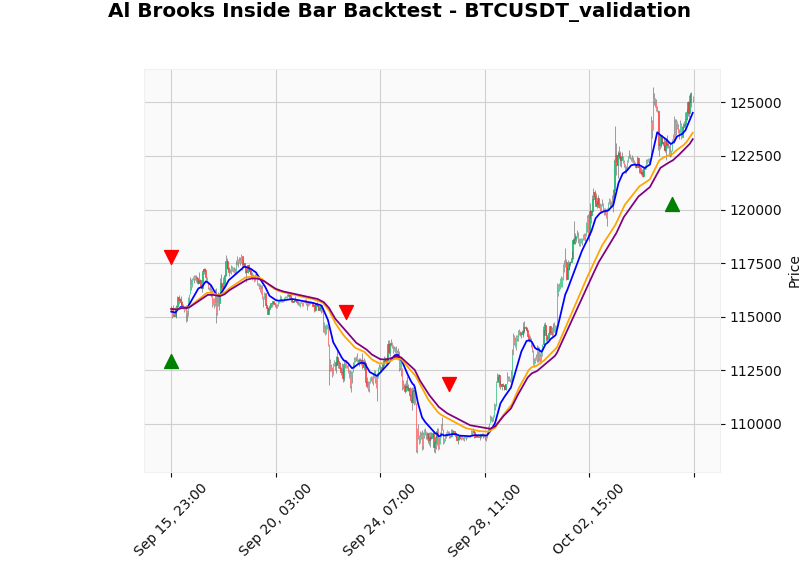
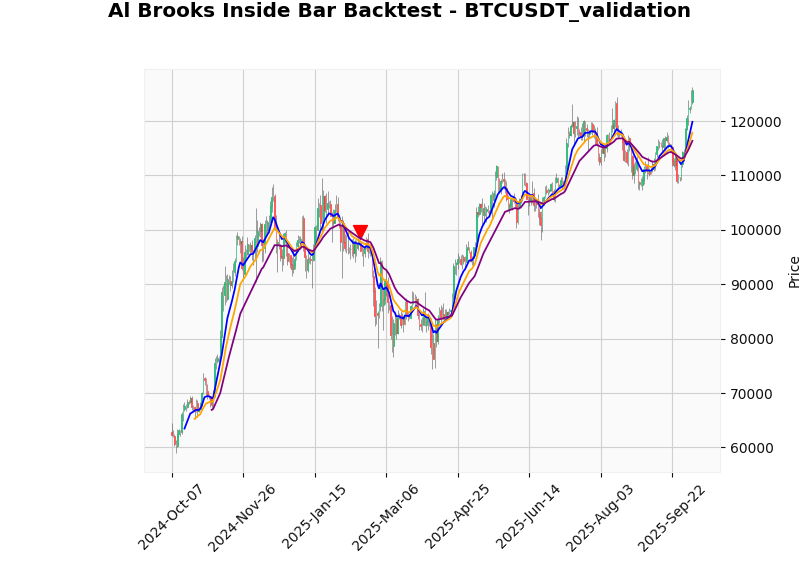
15

diff --git a/src/strategies/al_brooks_1d/live.py b/src/strategies/al_brooks_1d/live.py
@@ -59,7 +59,7 @@ def check_signals(df: pd.DataFrame, params: dict) -> str:
 def main():
     parser = argparse.ArgumentParser(description="Executa a estratégia Al Brooks em modo 'live' (paper trading).")
     parser.add_argument("--ticker", default="BTCUSDT", help="Símbolo do ativo")
-    parser.add_argument("--interval", default="1h", help="Intervalo das velas")
+    parser.add_argument("--interval", default="1d", help="Intervalo das velas")
     parser.add_argument("--poll_interval_seconds", type=int, default=10, help="Intervalo de verificação em segundos")
     parser.add_argument("--capital", type=float, default=100.0, help="Capital inicial para o paper trading")
     args = parser.parse_args()
@@ -85,10 +85,15 @@ def main():
     print("\nIniciando monitoramento... Pressione Ctrl+C para parar.")
     while True:
         try:
-            # Converte o intervalo para minutos (ex: '15m' -> 15, '1h' -> 60)
+            # Converte o intervalo para minutos (ex: '15m' -> 15, '1h' -> 60, '1d' -> 1440)
             interval_unit = args.interval[-1]
             interval_value = int(args.interval[:-1])
-            interval_minutes = interval_value * 60 if interval_unit == "h" else interval_value
+            if interval_unit == "h":
+                interval_minutes = interval_value * 60
+            elif interval_unit == "d":
+                interval_minutes = interval_value * 24 * 60
+            else:  # Assume 'm'
+                interval_minutes = interval_value
 
             # Carrega um pouco mais de dados do que o necessário para o cálculo das EMAs
             days_to_load = (

diff --git a/src/strategies/al_brooks_1d/backtest.py b/src/strategies/al_brooks_1d/backtest.py
@@ -217,7 +217,7 @@ def plot_backtest(df: pd.DataFrame, trades: list, ticker: str):
 def main():
     parser = argparse.ArgumentParser(description="Backtest para a estratégia de Inside Bar de Al Brooks.")
     parser.add_argument("--ticker", default="BTCUSDT", help="Símbolo do ativo (ex: BTCUSDT)")
-    parser.add_argument("--interval", default="1h", help="Intervalo das velas (ex: 15m, 1h)")
+    parser.add_argument("--interval", default="1d", help="Intervalo das velas (ex: 15m, 1h, 1d)")
     parser.add_argument("--days", type=int, default=365, help="Dias de dados históricos para o backtest")
     parser.add_argument("--lot_size", type=float, default=0.1, help="Tamanho do lote para cada operação")
     args = parser.parse_args()
@@ -302,7 +302,6 @@ def main():
         )
         avg_duration = total_duration / num_trades
         print(f"Duração Média do Trade: {str(avg_duration).split('.')[0]}")
-
 
     # Opcional: Salvar trades em um arquivo para análise mais profunda
     # pd.DataFrame(closed_trades).to_csv("al_brooks_trades.csv", index=False)

diff --git a/src/strategies/al_brooks_1d/optimize.py b/src/strategies/al_brooks_1d/optimize.py
@@ -98,7 +98,7 @@ def print_summary(title: str, trades: list, pnl: float):
 def main():
     parser = argparse.ArgumentParser(description="Otimizar a estratégia de Al Brooks com Optuna.")
     parser.add_argument("--ticker", default="BTCUSDT", help="Símbolo do ativo")
-    parser.add_argument("--interval", default="1h", help="Intervalo das velas")
+    parser.add_argument("--interval", default="1d", help="Intervalo das velas")
     parser.add_argument("--days", type=int, default=365, help="Dias de dados históricos")
     parser.add_argument("--train_frac", type=float, default=0.8, help="Fração de dados para treino (ex: 0.8 para 80%)")
     parser.add_argument("--lot_size", type=float, default=0.1, help="Tamanho do lote")

diff --git a/src/strategies/al_brooks_1d/README.md b/src/strategies/al_brooks_1d/README.md
@@ -32,21 +32,21 @@ A estratégia foi baseada na transcrição de um vídeo que detalha um setup de 
 
 ## 3. Principais Resultados Alcançados
 
-Após a otimização em um período de 5 anos de dados (`--days 1825`), os resultados do teste *out-of-sample* para o tempo gráfico de **1 hora** foram:
+Após a otimização em um período de 5 anos de dados (`--days 1825`), os resultados do teste *out-of-sample* para o tempo gráfico de **1 dia (1D)** serão preenchidos aqui.
 
 - **Resultado em Amostra (Treino - ~4 anos)**:
-  - **P&L Final**: $ 2126.78
-  - **Trades**: 358
-  - **Taxa de Acerto**: 34.92%
-  - **Profit Factor**: 1.25
+  - **P&L Final**: A ser definido
+  - **Trades**: A ser definido
+  - **Taxa de Acerto**: A ser definido
+  - **Profit Factor**: A ser definido
 
 - **Resultado Fora da Amostra (Validação - ~1 ano)**:
-  - **P&L Final**: $ 889.15
-  - **Trades**: 90
-  - **Taxa de Acerto**: 37.78%
-  - **Profit Factor**: 1.26
+  - **P&L Final**: A ser definido
+  - **Trades**: A ser definido
+  - **Taxa de Acerto**: A ser definido
+  - **Profit Factor**: A ser definido
 
-**Conclusão Principal**: A estratégia se provou **extremamente robusta** no tempo gráfico de 1 hora. A consistência das métricas (especialmente o Profit Factor) entre os dados de treino e os de validação (dados não vistos) é um forte indicativo de que a estratégia não está sobreajustada (*overfitted*) e possui uma vantagem de mercado real e generalizável.
+**Conclusão Principal**: A ser definida após a otimização e validação.
 
 ## 4. Passo a Passo de Como Usar
 
@@ -57,7 +57,7 @@ O fluxo de trabalho é simples: atualizar a base de dados, otimizar a estratégi
 Garanta que seu cache local de dados (`data/klines_cache.db`) esteja atualizado com os dados mais recentes da Binance.
 
 ```bash
-poetry run python -m scripts.populate_cache BTCUSDT 1h
+poetry run python -m scripts.populate_cache BTCUSDT 1d
 ```
 
 ### Passo 2: Otimizar a Estratégia (Optuna)
